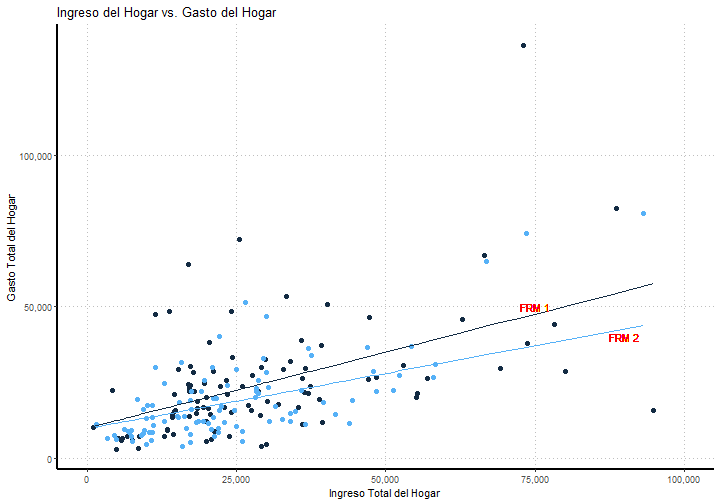
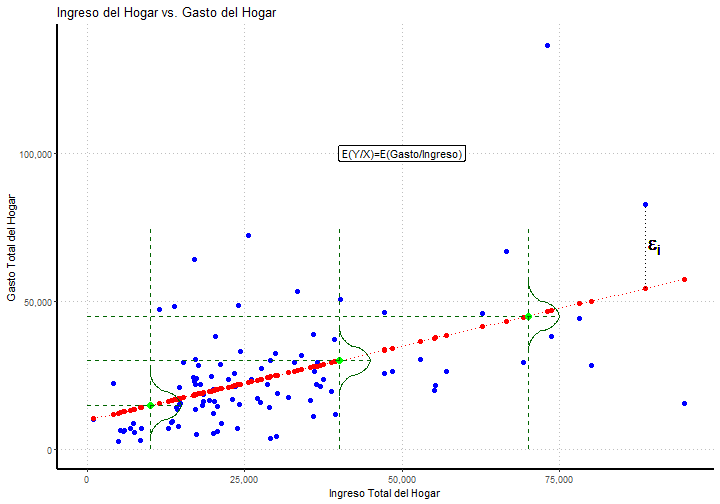
link regresion

diff --git a/10_Regresion.html b/10_Regresion.html
@@ -20,7 +20,7 @@ class: left, bottom, inverse, title-slide
 ### Esteban Rodríguez
 ]
 .date[
-### Última Actualización: 2022-10-29
+### Última Actualización: 2022-11-17
 ]
 
 ---
@@ -36,30 +36,32 @@ class: left, bottom, inverse, title-slide
 *“La estatura de los niños de padres de determinada estatura tienden a regresar a la estatura promedio de la población total”*
 ]
 
-- La ley de regresión universal de Galton fue confirmada por su amigo Karl Pearson, quien reunió más de 1000 registros de estaturas de miembros de grupos familiares, confirmando la teoría de Galton, que llamó **“regresión a la mediocridad”**
+- Galton observó que las características extremas (por ejemplo, la altura) de los padres no se transmiten por completo a su descendencia. Más bien, las características de la descendencia retroceden hacia un punto "mediocre".
 
---
-
-- La interpretación moderna del término regresión en muy diferente. 
-
-- El análisis de regresión trata del estudio de la dependencia de una variable (variable dependiente) respecto de una o más variables (variables explicativas) con el objetivo de estimar o predecir la media o valor promedio poblacional de la variable dependiente en términos de los valores conocidos o fijos (en muestras repetidas) de las variables explicativas.
+- El descendiente de los padres que se encuentran en las colas de la distribución tiende a estar más cerca del centro, la media de la distribución.
 
 ---
 
 # Origen del término regresión
 
+- La ley de regresión universal de Galton fue confirmada por su amigo Karl Pearson, quien reunió más de 1000 registros de estaturas de miembros de grupos familiares, confirmando la teoría de Galton, que llamó **“regresión a la mediocridad”**
+
 - A Francis Galton le interesaba las razones de estabilidad en la distribución de las estaturas dentro de una población 
 
-.pull-left[
-
 .center[
-![](Imagenes/galton.jpg)
-]
+&lt;img src="Imagenes/galton.jpg" width="400px" /&gt;
 ]
 
-.pull-right[
-En el enfoque moderno de regresión, el interés radica en conocer como cambia la estatura promedio de los hijos a partir del conocimiento de la estatura de sus padres, i.e. predecir la estatura de los hijos a partir de la estatura de los padres. 
-]
+
+---
+
+# Origen del término regresión
+
+- La interpretación moderna del término regresión en muy diferente.
+
+- En el enfoque moderno de regresión, el interés radica en conocer como cambia la estatura promedio de los hijos a partir del conocimiento de la estatura de sus padres, i.e. predecir la estatura de los hijos a partir de la estatura de los padres. 
+
+- El análisis de regresión trata del estudio de la dependencia de una variable (variable dependiente) respecto de una o más variables (variables explicativas) con el objetivo de estimar o predecir la media o valor promedio poblacional de la variable dependiente en términos de los valores conocidos o fijos (en muestras repetidas) de las variables explicativas.
 
 ---
 
@@ -162,7 +164,7 @@ En el enfoque moderno de regresión, el interés radica en conocer como cambia l
 # Regresión con 2 variables
 
 .center[
-![](10_Regresion_files/figure-html/unnamed-chunk-1-1.png)&lt;!-- --&gt;
+![](10_Regresion_files/figure-html/unnamed-chunk-2-1.png)&lt;!-- --&gt;
 ]
 
 ---
@@ -224,7 +226,7 @@ $$E(Y) = 24250 $$
 # Esperanza condicional/incondicional
 
 .center[
-![](10_Regresion_files/figure-html/unnamed-chunk-3-1.png)&lt;!-- --&gt;
+![](10_Regresion_files/figure-html/unnamed-chunk-4-1.png)&lt;!-- --&gt;
 ]
 
 ---
@@ -232,7 +234,7 @@ $$E(Y) = 24250 $$
 # Esperanza condicional/incondicional
 
 .center[
-![](10_Regresion_files/figure-html/unnamed-chunk-4-1.png)&lt;!-- --&gt;
+![](10_Regresion_files/figure-html/unnamed-chunk-5-1.png)&lt;!-- --&gt;
 ]
 
 ---
@@ -296,7 +298,7 @@ $$E(Y) = 24250 $$
 # FRP estocástica
 
 .center[
-![](10_Regresion_files/figure-html/unnamed-chunk-5-1.png)&lt;!-- --&gt;
+![](10_Regresion_files/figure-html/unnamed-chunk-6-1.png)&lt;!-- --&gt;
 ]
 
 ---
@@ -411,13 +413,13 @@ donde:
 
 # Función de regresión muestral
 
-![](10_Regresion_files/figure-html/unnamed-chunk-6-1.png)&lt;!-- --&gt;
+![](10_Regresion_files/figure-html/unnamed-chunk-7-1.png)&lt;!-- --&gt;
 
 ---
 
 # Función de regresión muestral
 
-![](10_Regresion_files/figure-html/unnamed-chunk-7-1.png)&lt;!-- --&gt;
+![](10_Regresion_files/figure-html/unnamed-chunk-8-1.png)&lt;!-- --&gt;
 
 ---
 

diff --git a/index.html b/index.html
@@ -396,6 +396,7 @@ Confianza</a></p>
 muestras</a></p>
 <p><a href="Resueltos_P9.pdf">9.1) Ejercicios Resueltos Práctica
 9</a></p>
+<p><a href="10_Regresion.html">10) Análisis de Regresión Lineal</a></p>
 </div>
 <div id="prácticas" class="section level3">
 <h3>Prácticas</h3>
